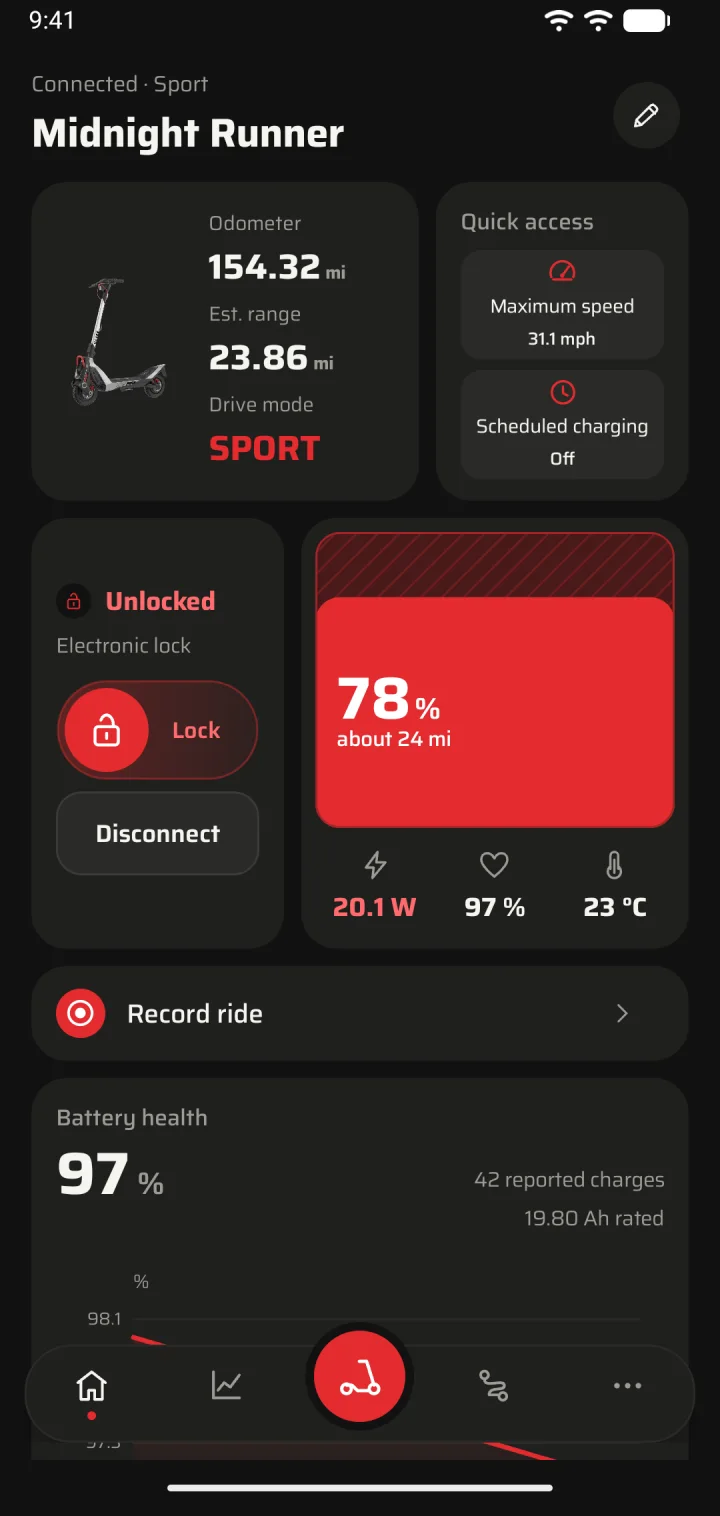
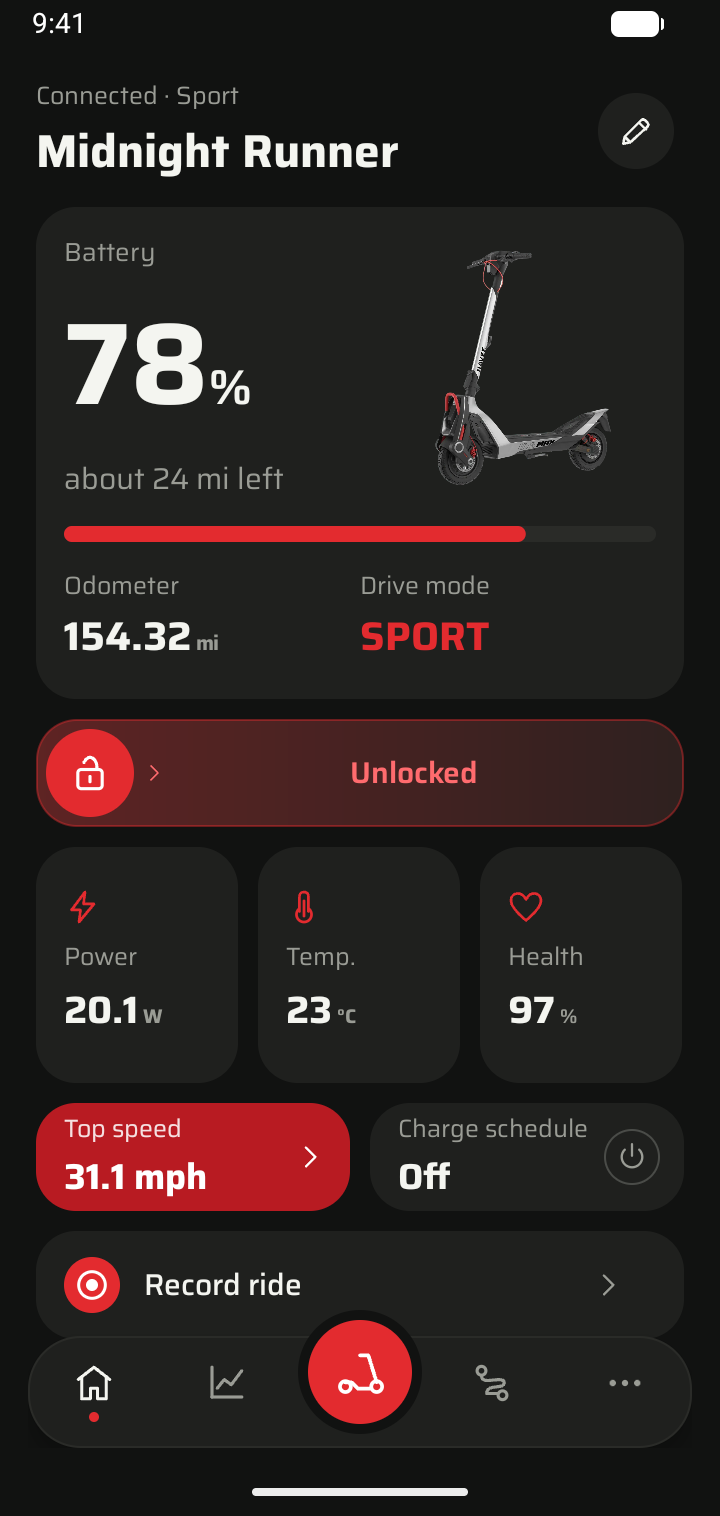
Refresh website dashboard screenshots for Volt 1.4.0

diff --git a/site/src/index.html b/site/src/index.html
@@ -81,7 +81,7 @@
         <div class="ring ring-2" aria-hidden="true"></div>
         <div class="phone tilt" id="hero-phone">
           <div class="phone-screen">
-            <img src="img/phone-home.webp" width="720" height="1516" alt="Volt home dashboard: Midnight Runner connected in Sport mode with 154.32 miles on the odometer, an unlocked electronic lock and the battery at 78 percent, about 24 miles of range.">
+            <img src="img/phone-home.webp?v=1.4.0" width="720" height="1516" alt="Volt home dashboard: Midnight Runner connected in Sport mode with 154.32 miles on the odometer, an unlocked electronic lock and the battery at 78 percent, about 24 miles of range.">
           </div>
           <div class="phone-glare" aria-hidden="true"></div>
         </div>
@@ -156,7 +156,7 @@
 
     <section class="section fold" id="foldables" aria-labelledby="fold-title">
       <div class="fold-device reveal">
-        <div class="fold-screen"><img src="img/unfolded-home.webp" width="1400" height="1087" loading="lazy" alt="Volt on an unfolded foldable: a wide two-column dashboard with a navigation rail, the scooter card, quick access, a large lock slider and the battery at 78 percent."></div>
+        <div class="fold-screen"><img src="img/unfolded-home.webp?v=1.4.0" width="1400" height="1087" loading="lazy" alt="Volt on an unfolded foldable: the current default dashboard with a navigation rail, 78 percent battery, an unlocked slider, live readings, quick settings and ride recording."></div>
         <div class="fold-crease" aria-hidden="true"></div>
       </div>
       <div class="fold-copy reveal">

diff --git a/site/README.md b/site/README.md
@@ -5,7 +5,7 @@ The public homepage at <https://volt.jjricks.com/>. It's a single static page wi
 ## Layout
 
 - `src/` holds the page: `index.html`, `styles.css`, `main.js`, the icons, the link-preview card (`og.png`), the web manifest, `robots.txt` and `sitemap.xml`.
-- `src/img/` holds the app screenshots, exported as WebP. They were captured on an emulator in simulation mode with sample data; the developer-mode banner is cropped out, and the footer says the screens show sample data.
+- `src/img/` holds the app screenshots, exported as WebP. They were captured on an emulator in simulation mode with sample data; the developer-mode banner is omitted, and the footer says the screens show sample data. The two dashboard screenshots show the default layout in Volt 1.4.0.
 - `tools/` holds the templates and script that render `og.png` and the PNG icons with a local Google Chrome: `bash site/tools/render-images.sh`. The rendered files are committed, so a normal build doesn't need Chrome.
 - `nginx/volt-homepage.conf` is the server configuration, with security headers, caching and the ACME webroot.
 
